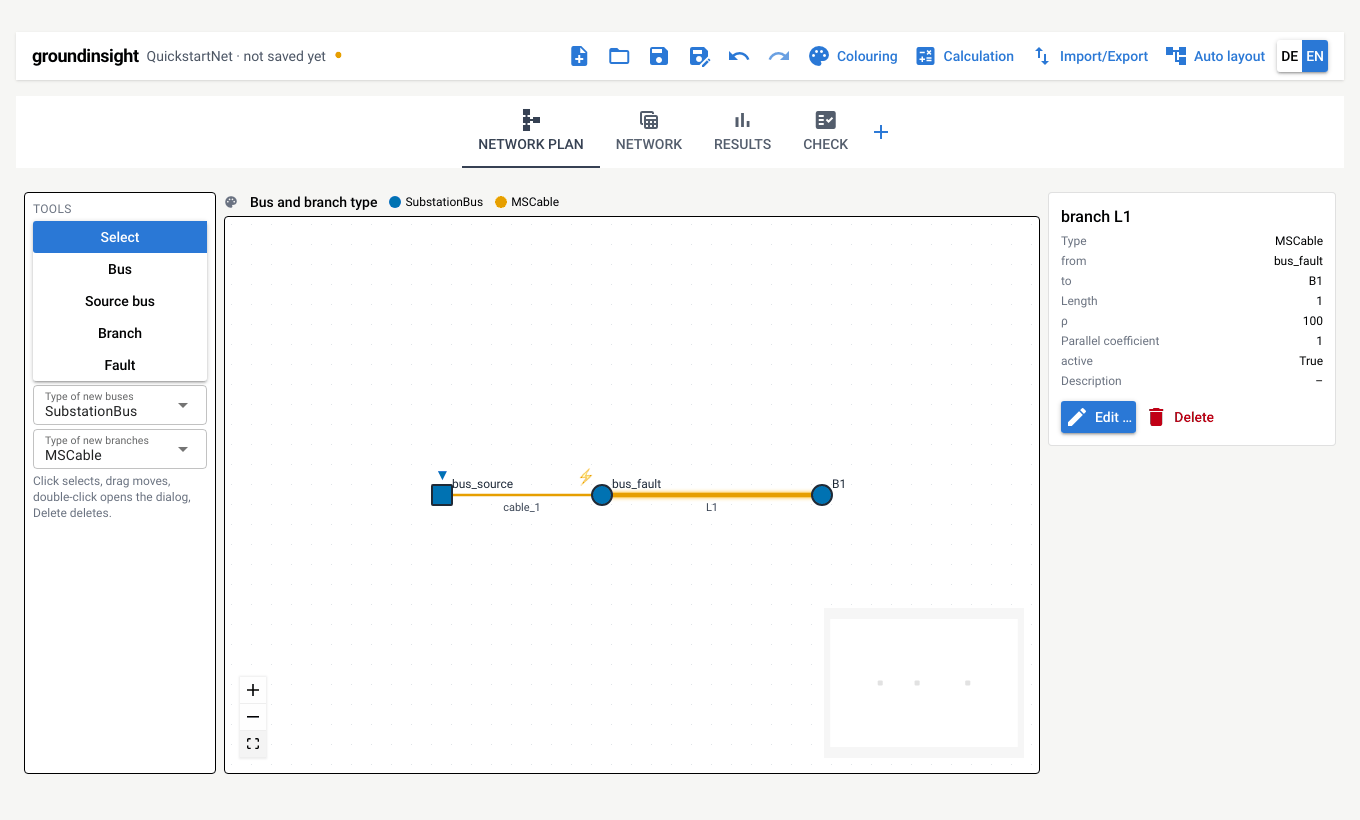
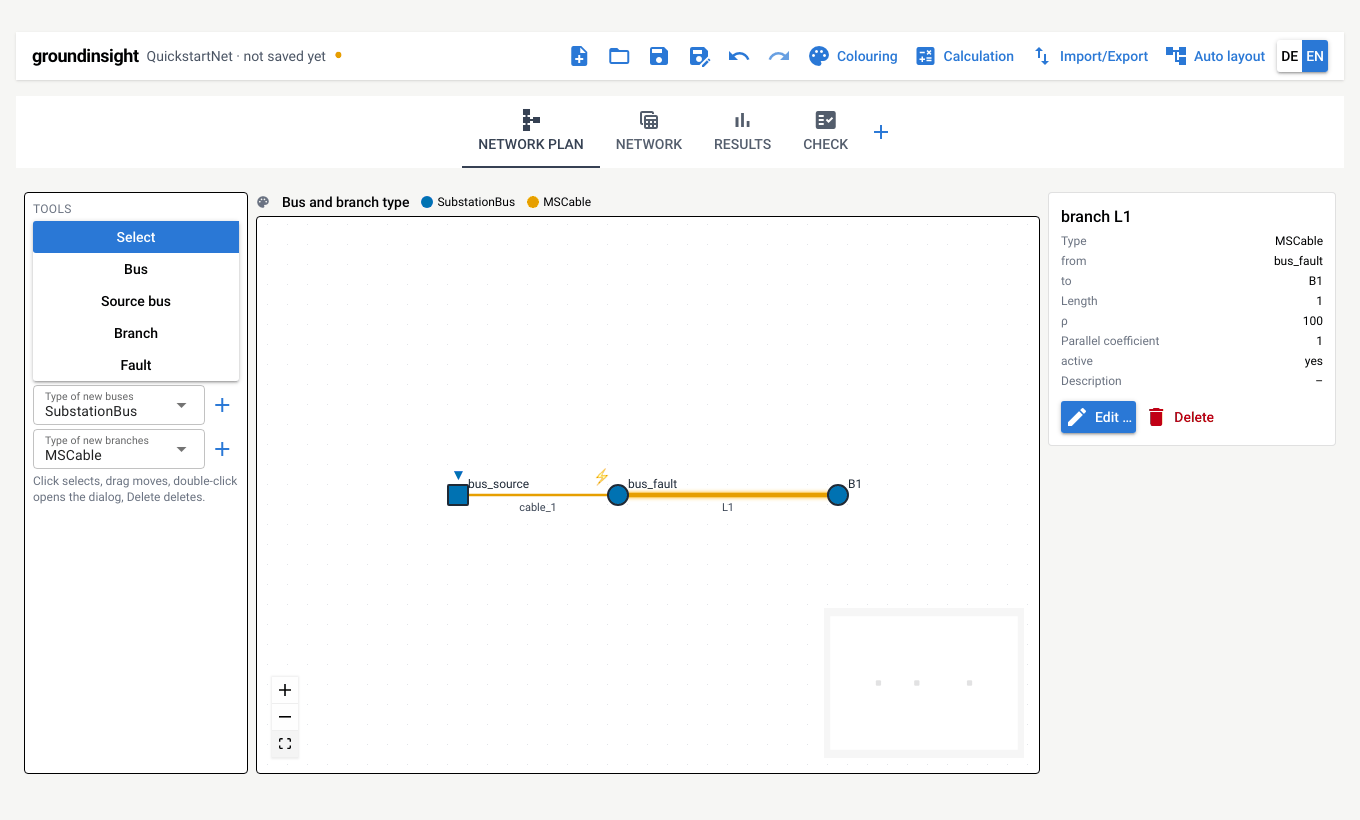
docs, gui: tutorial pictures of the current GUI; the empty project named in the page's language
The pictures of "Draw and solve a network" are retaken: four templates on
the start page, the palette with its "+" for types from the standard
library; the GUI showed the same numbers as the page's text. The page
points to the "+", the standard library and the empty project.

The empty project is called "Neues Netz" in German and "New network" in
English: build_empty takes the name, the GUI passes it in its language.

diff --git a/src/groundinsight/api/examples.py b/src/groundinsight/api/examples.py
@@ -208,23 +208,28 @@ def build_mv_ring(n_buses: int = 20) -> gi.Network:
 
 
 #: Template name to builder, for "new project from template".
-def build_empty() -> gi.Network:
+def build_empty(name: str = "New network") -> gi.Network:
     """
     A network without elements, at 50 Hz.
+
+    Parameters
+    ----------
+    name : str, optional
+        Name of the network; a front end passes it in its language.
 
     Returns
     -------
     Network
-        ``New network``: no buses, branches, sources or faults; the
-        frequencies can be changed before or after drawing.
+        No buses, branches, sources or faults; the frequencies can be
+        changed before or after drawing.
 
     Examples
     --------
     >>> net = build_empty()
-    >>> len(net.buses), net.frequencies
-    (0, [50.0])
+    >>> net.name, len(net.buses), net.frequencies
+    ('New network', 0, [50.0])
     """
-    return gi.create_network(name="New network", frequencies=[50.0])
+    return gi.create_network(name=name, frequencies=[50.0])
 
 
 EXAMPLES: Dict[str, Callable[[], gi.Network]] = {

diff --git a/gui/groundinsight_gui/i18n.py b/gui/groundinsight_gui/i18n.py
@@ -44,6 +44,7 @@ STRINGS: Dict[str, Dict[str, str]] = {
         "template_name_mv_ring": "MS-Ring",
         "template_empty": "Ohne Elemente, 50 Hz – zum Zeichnen mit Typen aus der Standardbibliothek",
         "template_name_empty": "Leeres Projekt",
+        "new_network_name": "Neues Netz",
         "type_new": "Neu …",
         "type_edit": "Bearbeiten …",
         "type_copy": "Kopieren",
@@ -324,6 +325,7 @@ STRINGS: Dict[str, Dict[str, str]] = {
         "template_name_mv_ring": "MV ring",
         "template_empty": "No elements, 50 Hz – for drawing with types from the standard library",
         "template_name_empty": "Empty project",
+        "new_network_name": "New network",
         "type_new": "New …",
         "type_edit": "Edit …",
         "type_copy": "Copy",

diff --git a/gui/groundinsight_gui/app.py b/gui/groundinsight_gui/app.py
@@ -353,9 +353,11 @@ class ProjectPage:
         self.runner.shutdown(wait=False)
 
     def _session_from_template(self, name: str) -> ProjectSession:
-        """A new session on a template network."""
+        """A new session on a template network (the empty one named in the page's language)."""
+        builder = self.templates[name]
+        network = builder(name=self.t("new_network_name")) if name == "empty" else builder()
         return ProjectSession(
-            self.templates[name](),
+            network,
             runner=self.runner,
             max_job_runtime_s=self.options.max_job_runtime_s,
         )

diff --git a/gui/tests/test_catalogue.py b/gui/tests/test_catalogue.py
@@ -148,3 +148,10 @@ async def test_types_without_users_are_saved_with_the_project(user: User, tmp_pa
     page.session.save(str(path))
     payload = json.loads(path.read_text(encoding="utf-8"))
     assert [t["name"] for t in payload["types"]["branch_types"]] == [NAYY]
+
+
+@pytest.mark.parametrize("language, expected", [("de", "Neues Netz"), ("en", "New network")])
+async def test_the_empty_project_is_named_in_the_pages_language(user: User, language, expected):
+    pages = build_app(AppOptions(start_example="empty", language=language))
+    await user.open("/")
+    assert pages[0].session.network.name == expected

diff --git a/docs/getting-started/gui.md b/docs/getting-started/gui.md
@@ -28,7 +28,7 @@ The last command opens `http://127.0.0.1:8080` in the browser
 
 ## 1. Start from a template
 
-![The start page with three templates and a field to open a project file](img/gui-start.png)
+![The start page with four templates and a field to open a project file](img/gui-start.png)
 
 Click **Quickstart**. The template is the network of the first tutorial:
 `bus_source` with the infeed (the blue triangle), `bus_fault` with the fault
@@ -58,6 +58,14 @@ and *Length / km* to `3`; **Apply**.
 Every change is one step of the service layer: **Undo** and **Redo** in the
 toolbar take it back and forth, and a change the library refuses — a
 duplicate name, a negative length — is not applied and says why.
+
+!!! tip "Other types"
+
+    The **+** next to *Type of new buses* and *Type of new branches* adds a
+    type from the [standard library](../reference/standard-types.md) — 20 kV
+    cable systems, NAYY cables, typical earth electrodes — and makes it the
+    type of new elements. The template **Empty project** starts without any
+    element; the network tab's type tables create, edit and copy types.
 
 ## 3. Put a fault at the new station
 
